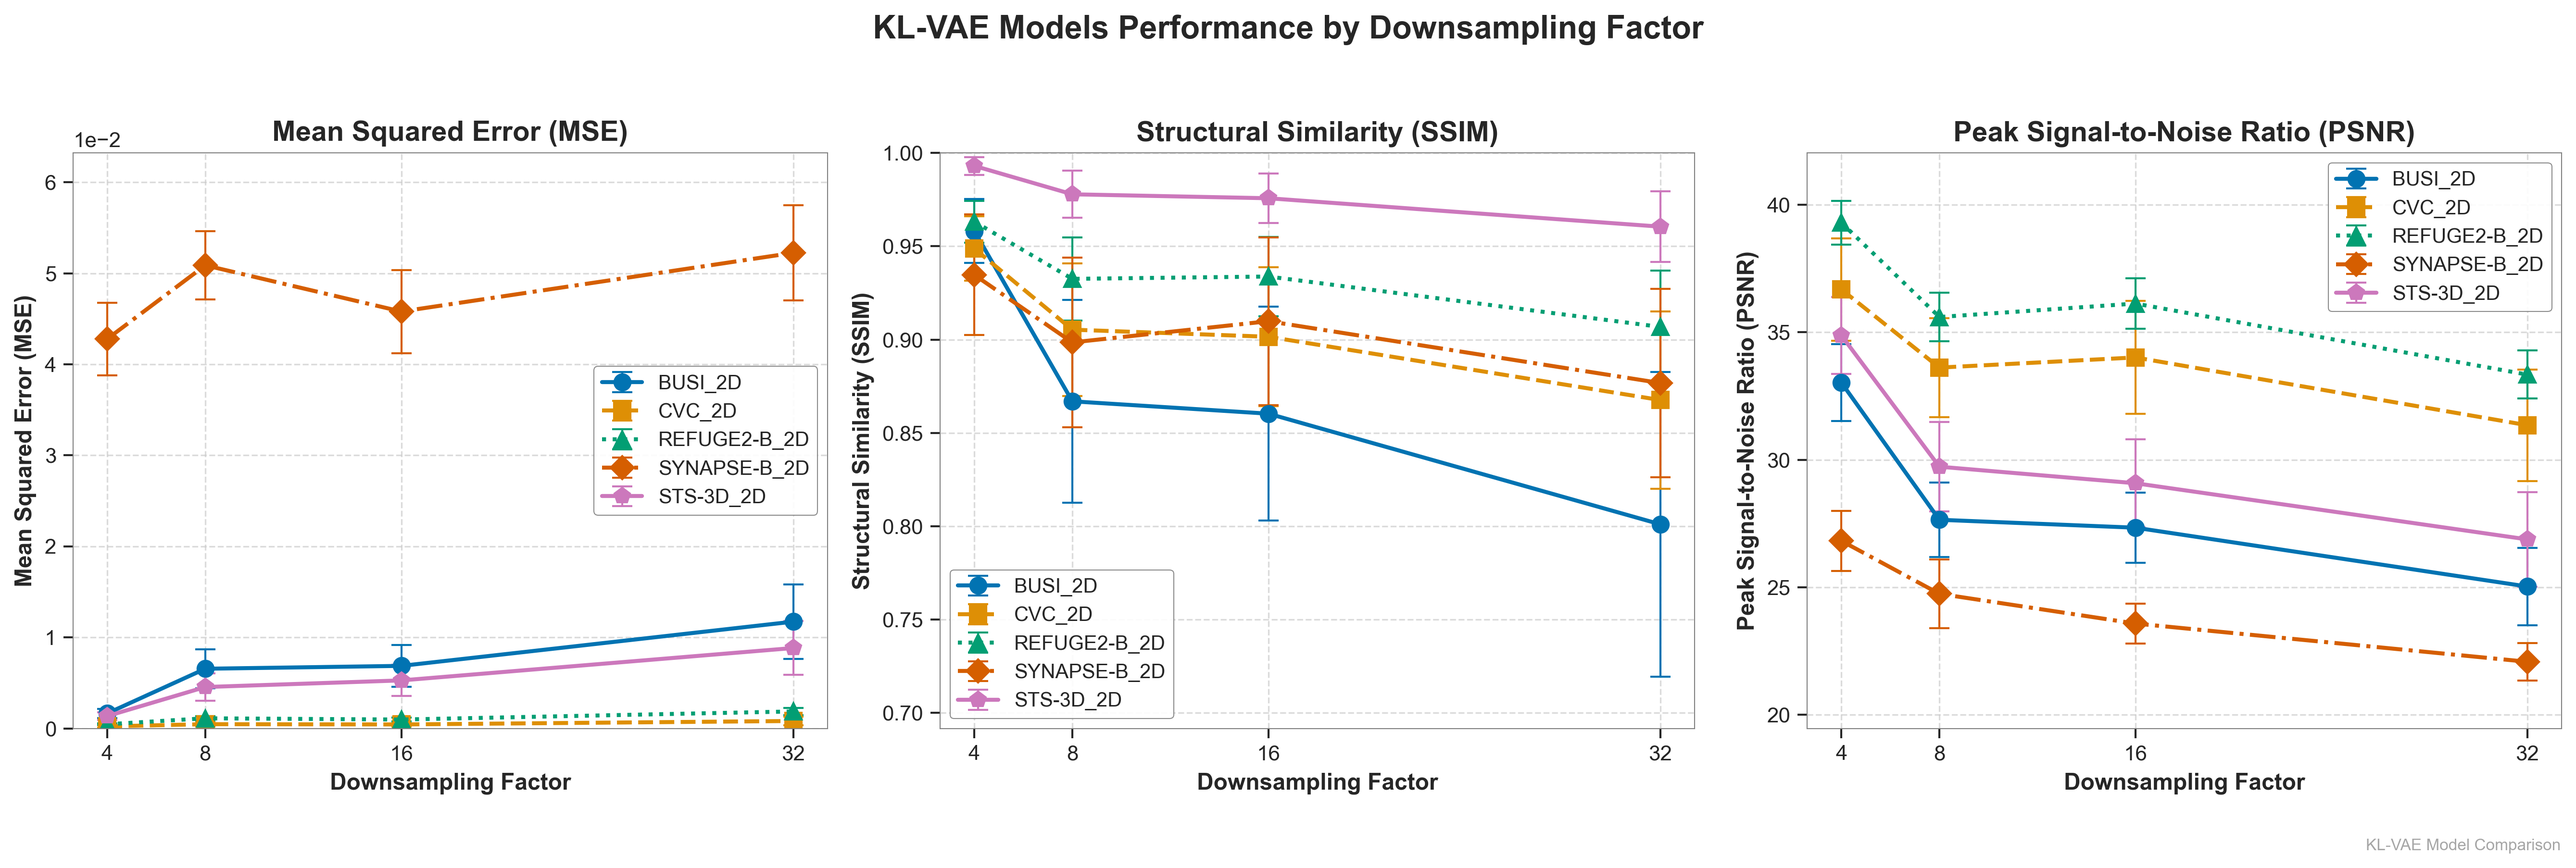
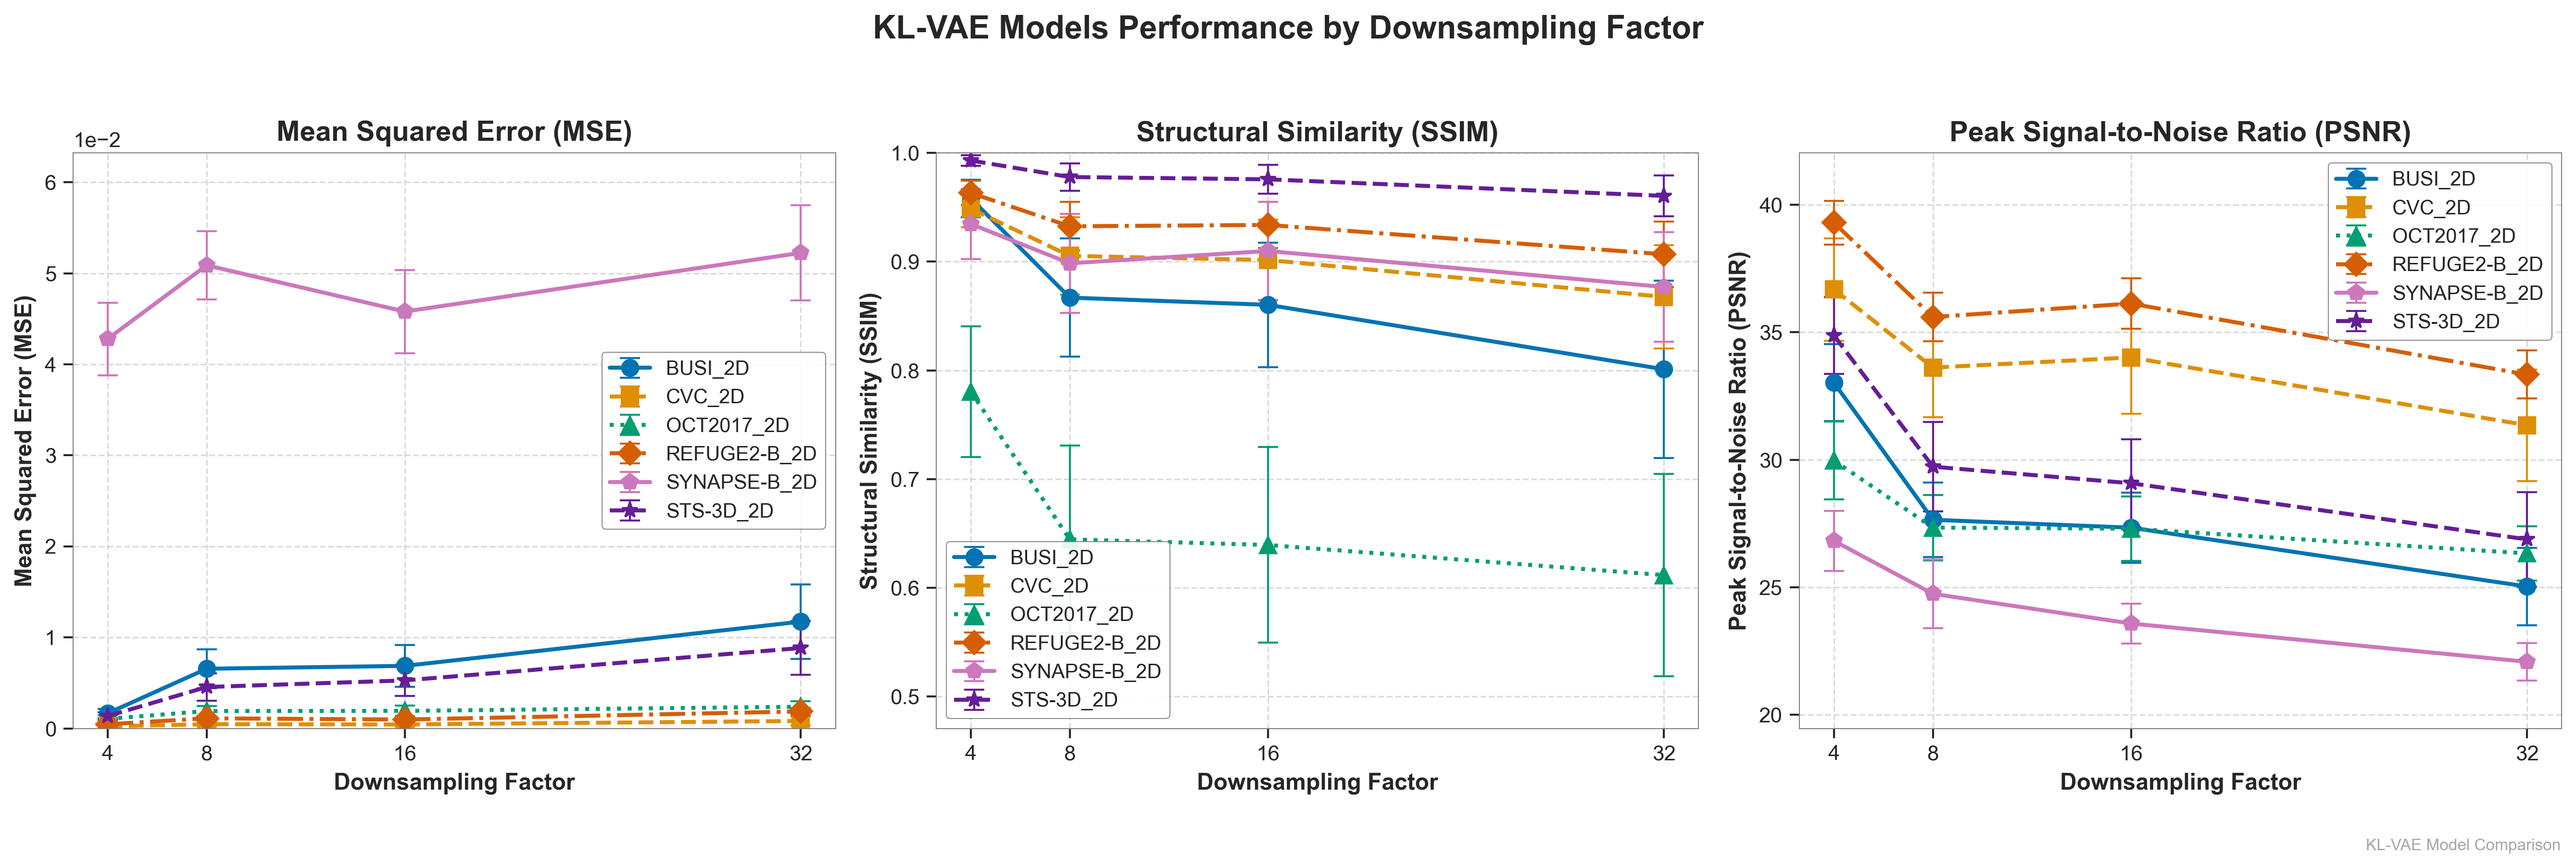
finish plot

diff --git a/scripts/analyze_vqvae.py b/scripts/analyze_vqvae.py
@@ -14,7 +14,7 @@ sns.set_context("paper", font_scale=1.2)
 
 # Collect VQ models data - only include standard models, not the variants
 vq_models = ['pt-vq-f4', 'pt-vq-f8', 'pt-vq-f16']  # Removed pt-vq-f4-noattn and pt-vq-f8-n256
-datasets = ['BUSI_2D', 'CVC_2D', 'REFUGE2-B_2D', 'SYNAPSE-B_2D', 'STS-3D_2D']
+datasets = ['BUSI_2D', 'CVC_2D', 'OCT2017_2D', 'REFUGE2-B_2D', 'SYNAPSE-B_2D', 'STS-3D_2D']
 
 # Extract the downsampling factor numbers for sorting
 factors = [int(re.search(r'f(\d+)', model).group(1)) for model in vq_models]
@@ -70,9 +70,9 @@ metric_labels = ['Mean Squared Error (MSE)', 'Structural Similarity (SSIM)', 'Pe
 
 # Scientific publication color palette - colorblind friendly
 # Using a color palette inspired by Nature, Science, etc.
-colors = ['#0173B2', '#DE8F05', '#029E73', '#D55E00', '#CC78BC']
-markers = ['o', 's', '^', 'D', 'p']
-linestyles = ['-', '--', ':', '-.', '-']
+colors = ['#0173B2', '#DE8F05', '#029E73', '#D55E00', '#CC78BC', '#661D98']
+markers = ['o', 's', '^', 'D', 'p', '*']
+linestyles = ['-', '--', ':', '-.', '-', '--']
 
 # For each metric, create a line plot
 for i, (metric, metric_label) in enumerate(zip(metrics, metric_labels)):

diff --git a/scripts/analyze_klvae.py b/scripts/analyze_klvae.py
@@ -18,7 +18,7 @@ factors = [int(model.split('-f')[1]) for model in kl_models]
 # Create a mapping of model to factor for later use
 model_to_factor = {model: factor for model, factor in zip(kl_models, factors)}
 
-datasets = ['BUSI_2D', 'CVC_2D', 'REFUGE2-B_2D', 'SYNAPSE-B_2D', 'STS-3D_2D']
+datasets = ['BUSI_2D', 'CVC_2D', 'OCT2017_2D','REFUGE2-B_2D', 'SYNAPSE-B_2D', 'STS-3D_2D']
 
 # Dictionary to store the results
 results_kl = {}
@@ -69,9 +69,9 @@ metric_labels = ['Mean Squared Error (MSE)', 'Structural Similarity (SSIM)', 'Pe
 
 # Scientific publication color palette - colorblind friendly
 # Using a color palette inspired by Nature, Science, etc.
-colors = ['#0173B2', '#DE8F05', '#029E73', '#D55E00', '#CC78BC']
-markers = ['o', 's', '^', 'D', 'p']
-linestyles = ['-', '--', ':', '-.', '-']
+colors = ['#0173B2', '#DE8F05', '#029E73', '#D55E00', '#CC78BC', '#661D98']
+markers = ['o', 's', '^', 'D', 'p', '*']
+linestyles = ['-', '--', ':', '-.', '-', '--']
 
 # For each metric, create a line plot
 for i, (metric, metric_label) in enumerate(zip(metrics, metric_labels)):

diff --git a/scripts/compare_vq_f4_vs_noattn.py b/scripts/compare_vq_f4_vs_noattn.py
@@ -14,7 +14,7 @@ sns.set_context("paper", font_scale=1.2)
 # Models to compare
 model1 = 'pt-vq-f4'
 model2 = 'pt-vq-f4-noattn'
-datasets = ['BUSI_2D', 'CVC_2D', 'REFUGE2-B_2D', 'SYNAPSE-B_2D', 'STS-3D_2D']
+datasets = ['BUSI_2D', 'CVC_2D', 'OCT2017_2D', 'REFUGE2-B_2D', 'SYNAPSE-B_2D', 'STS-3D_2D']
 
 # Dictionary to store the results
 all_results = {model1: {}, model2: {}}

diff --git a/scripts/compare_vq_f8_vs_n256.py b/scripts/compare_vq_f8_vs_n256.py
@@ -14,7 +14,7 @@ sns.set_context("paper", font_scale=1.2)
 # Models to compare
 model1 = 'pt-vq-f8'
 model2 = 'pt-vq-f8-n256'
-datasets = ['BUSI_2D', 'CVC_2D', 'REFUGE2-B_2D', 'SYNAPSE-B_2D', 'STS-3D_2D']
+datasets = ['BUSI_2D', 'CVC_2D', 'OCT2017_2D', 'REFUGE2-B_2D', 'SYNAPSE-B_2D', 'STS-3D_2D']
 
 # Dictionary to store the results
 all_results = {model1: {}, model2: {}}
